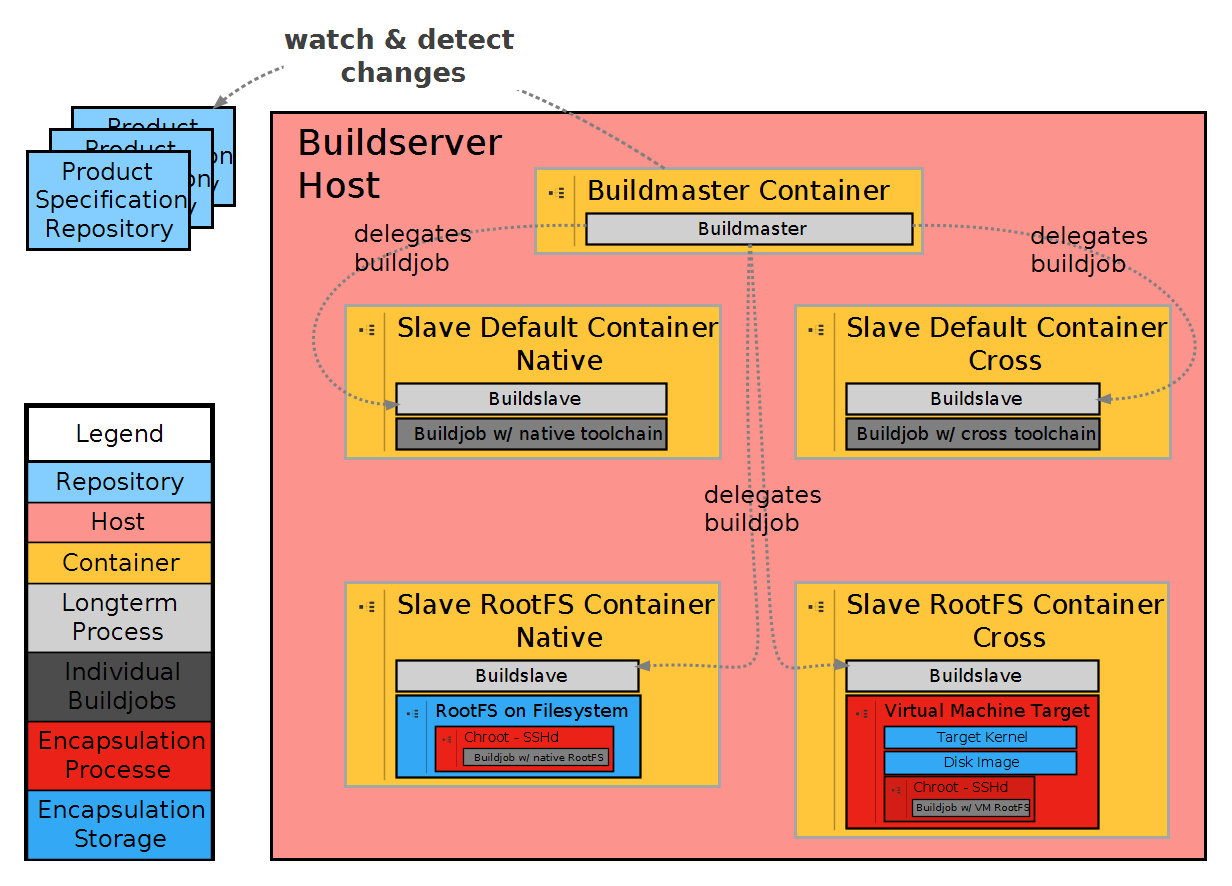
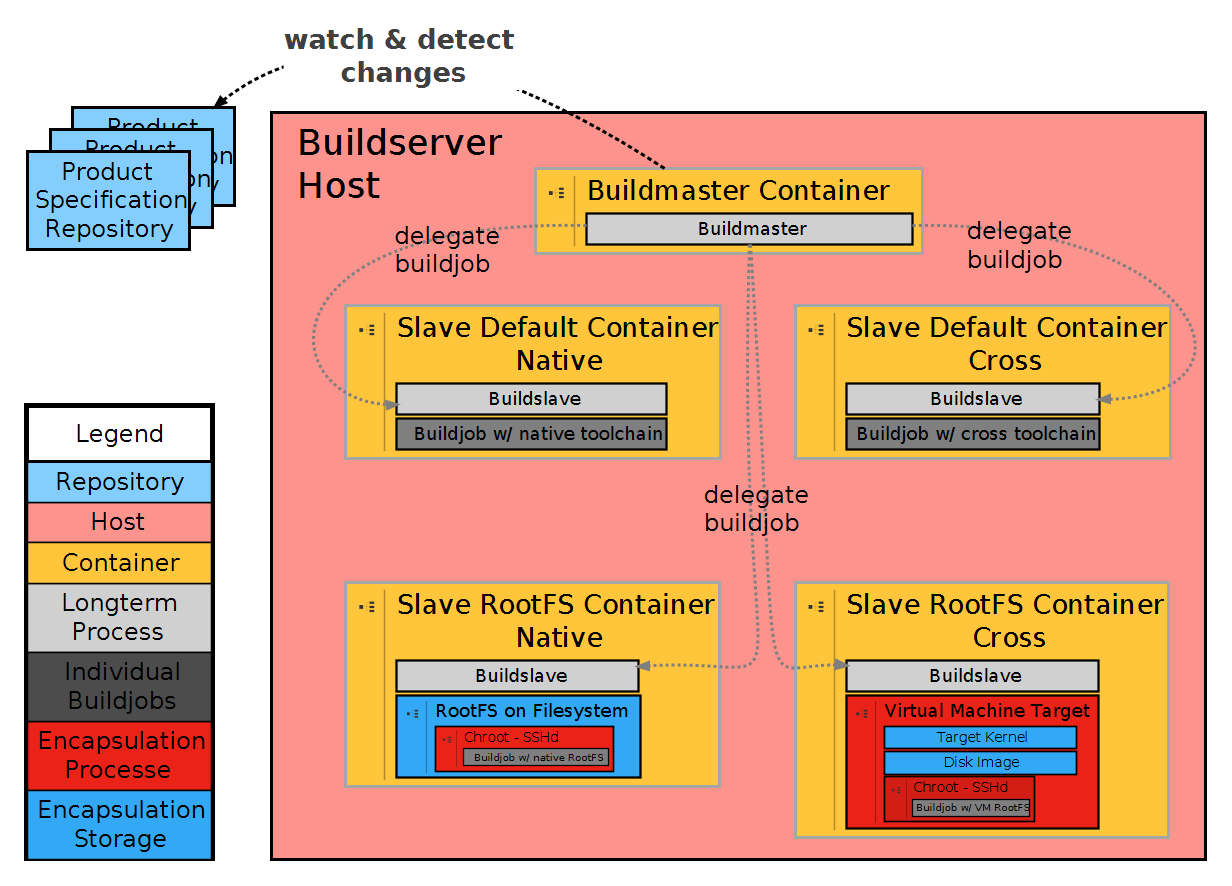
minor syntax fix

Changed region(s): [[0.7711, 0.2438, 0.9253, 0.3047], [0.2776, 0.2438, 0.401, 0.3047], [0.1542, 0.0914, 0.1851, 0.1219]]

diff --git a/concept/implementation.vue b/concept/implementation.vue
@@ -1,14 +1,14 @@
 <!-- Tufts VUE 3.2.2 concept-map (implementation.vue) 2015-03-13 -->
 <!-- Tufts VUE: http://vue.tufts.edu/ -->
 <!-- Do Not Remove: VUE mapping @version(1.1) jar:file:/opt/vue/VUE.jar!/tufts/vue/resources/lw_mapping_1_1.xml -->
-<!-- Do Not Remove: Saved date Fri Mar 13 13:56:50 CET 2015 by lars on platform Linux 3.19.1-gentoo in JVM 1.7.0_76-b13 -->
+<!-- Do Not Remove: Saved date Fri Mar 13 14:19:12 CET 2015 by lars on platform Linux 3.19.1-gentoo in JVM 1.7.0_76-b13 -->
 <!-- Do Not Remove: Saving version @(#)VUE: built May 23 2013 at 2146 by tomadm on Linux 2.6.18-348.2.1.el5 i386 JVM 1.7.0_21-b11(bits=32) -->
 <?xml version="1.0" encoding="US-ASCII"?>
 <LW-MAP xmlns:xsi="http://www.w3.org/2001/XMLSchema-instance"
     xsi:noNamespaceSchemaLocation="none" ID="0"
     label="implementation.vue" created="1426247864265" x="0.0" y="0.0"
     width="1.4E-45" height="1.4E-45" strokeWidth="0.0" autoSized="false">
-    <resource referenceCreated="1426251410644" size="27128"
+    <resource referenceCreated="1426252752519" size="32957"
         spec="/home/lars/Documents/embedux/documentation/concept/implementation.vue"
         type="1" xsi:type="URLResource">
         <title>implementation.vue</title>
@@ -277,7 +277,7 @@
         width="300.94116" height="97.62072" strokeWidth="2.0"
         strokeStyle="3" autoSized="false" controlCount="1"
         arrowState="2" xsi:type="link">
-        <strokeColor>#7F7F7F</strokeColor>
+        <strokeColor>#000000</strokeColor>
         <textColor>#404040</textColor>
         <font>Arial-bold-18</font>
         <URIString>http://vue.tufts.edu/rdf/resource/13295c9c7f00000137af7310b726b762</URIString>
@@ -376,9 +376,9 @@
         <label>Buildserver Host</label>
     </child>
     <child ID="104"
-        label="delegates&#xa;    &#xa;    &#xa;      buildjob"
+        label="delegate&#xa;    &#xa;    &#xa;      buildjob"
         layerID="1" created="1426251149178" x="877.9759" y="360.78296"
-        width="77.0" height="43.0" strokeWidth="0.0" autoSized="false" xsi:type="text">
+        width="76.0" height="44.0" strokeWidth="0.0" autoSized="false" xsi:type="text">
         <strokeColor>#404040</strokeColor>
         <textColor>#000000</textColor>
         <font>-plain-16</font>
@@ -397,7 +397,7 @@
   &lt;/head&gt;
   &lt;body&gt;
     &lt;p style="color: #000000" color="#000000"&gt;
-      &lt;font style="font-size:16;"&gt;delegates
+      &lt;font style="font-size:16;"&gt;delegate
 &lt;/font&gt;    &lt;/p&gt;
     &lt;p style="color: #000000" color="#000000"&gt;
       &lt;font style="font-size:16;"&gt;buildjob&lt;/font&gt;
@@ -405,15 +405,15 @@
   &lt;/body&gt;
 &lt;/html&gt;
 </richText>
-        <label>delegates
+        <label>delegate
     
     
       buildjob</label>
     </child>
     <child ID="107"
-        label="delegates&#xa;    &#xa;    &#xa;      buildjob"
-        layerID="1" created="1426251310742" x="644.63184" y="187.29736"
-        width="79.0" height="43.0" strokeWidth="0.0" autoSized="false" xsi:type="text">
+        label="delegate&#xa;    &#xa;    &#xa;      buildjob"
+        layerID="1" created="1426251310742" x="671.8263" y="188.30458"
+        width="78.0" height="43.0" strokeWidth="0.0" autoSized="false" xsi:type="text">
         <strokeColor>#404040</strokeColor>
         <textColor>#000000</textColor>
         <font>-plain-16</font>
@@ -432,7 +432,7 @@
   &lt;/head&gt;
   &lt;body&gt;
     &lt;p style="color: #000000" color="#000000"&gt;
-      &lt;font style="font-size:16;"&gt;delegates &lt;/font&gt;
+      &lt;font style="font-size:16;"&gt;delegate&lt;/font&gt;
     &lt;/p&gt;
     &lt;p style="color: #000000" color="#000000"&gt;
       &lt;font style="font-size:16;"&gt;buildjob&lt;/font&gt;
@@ -440,15 +440,15 @@
   &lt;/body&gt;
 &lt;/html&gt;
 </richText>
-        <label>delegates
+        <label>delegate
     
     
       buildjob</label>
     </child>
     <child ID="108"
-        label="delegates&#xa;    &#xa;    &#xa;      buildjob"
-        layerID="1" created="1426251313414" x="1095.6318" y="188.29736"
-        width="79.0" height="43.0" strokeWidth="0.0" autoSized="false" xsi:type="text">
+        label="delegate&#xa;    &#xa;    &#xa;      buildjob"
+        layerID="1" created="1426251313414" x="1053.3293" y="185.27571"
+        width="78.0" height="43.0" strokeWidth="0.0" autoSized="false" xsi:type="text">
         <strokeColor>#404040</strokeColor>
         <textColor>#000000</textColor>
         <font>-plain-16</font>
@@ -467,7 +467,7 @@
   &lt;/head&gt;
   &lt;body&gt;
     &lt;p style="color: #000000" color="#000000"&gt;
-      &lt;font style="font-size:16;"&gt;delegates &lt;/font&gt;
+      &lt;font style="font-size:16;"&gt;delegate&lt;/font&gt;
     &lt;/p&gt;
     &lt;p style="color: #000000" color="#000000"&gt;
       &lt;font style="font-size:16;"&gt;buildjob&lt;/font&gt;
@@ -475,7 +475,7 @@
   &lt;/body&gt;
 &lt;/html&gt;
 </richText>
-        <label>delegates
+        <label>delegate
     
     
       buildjob</label>
